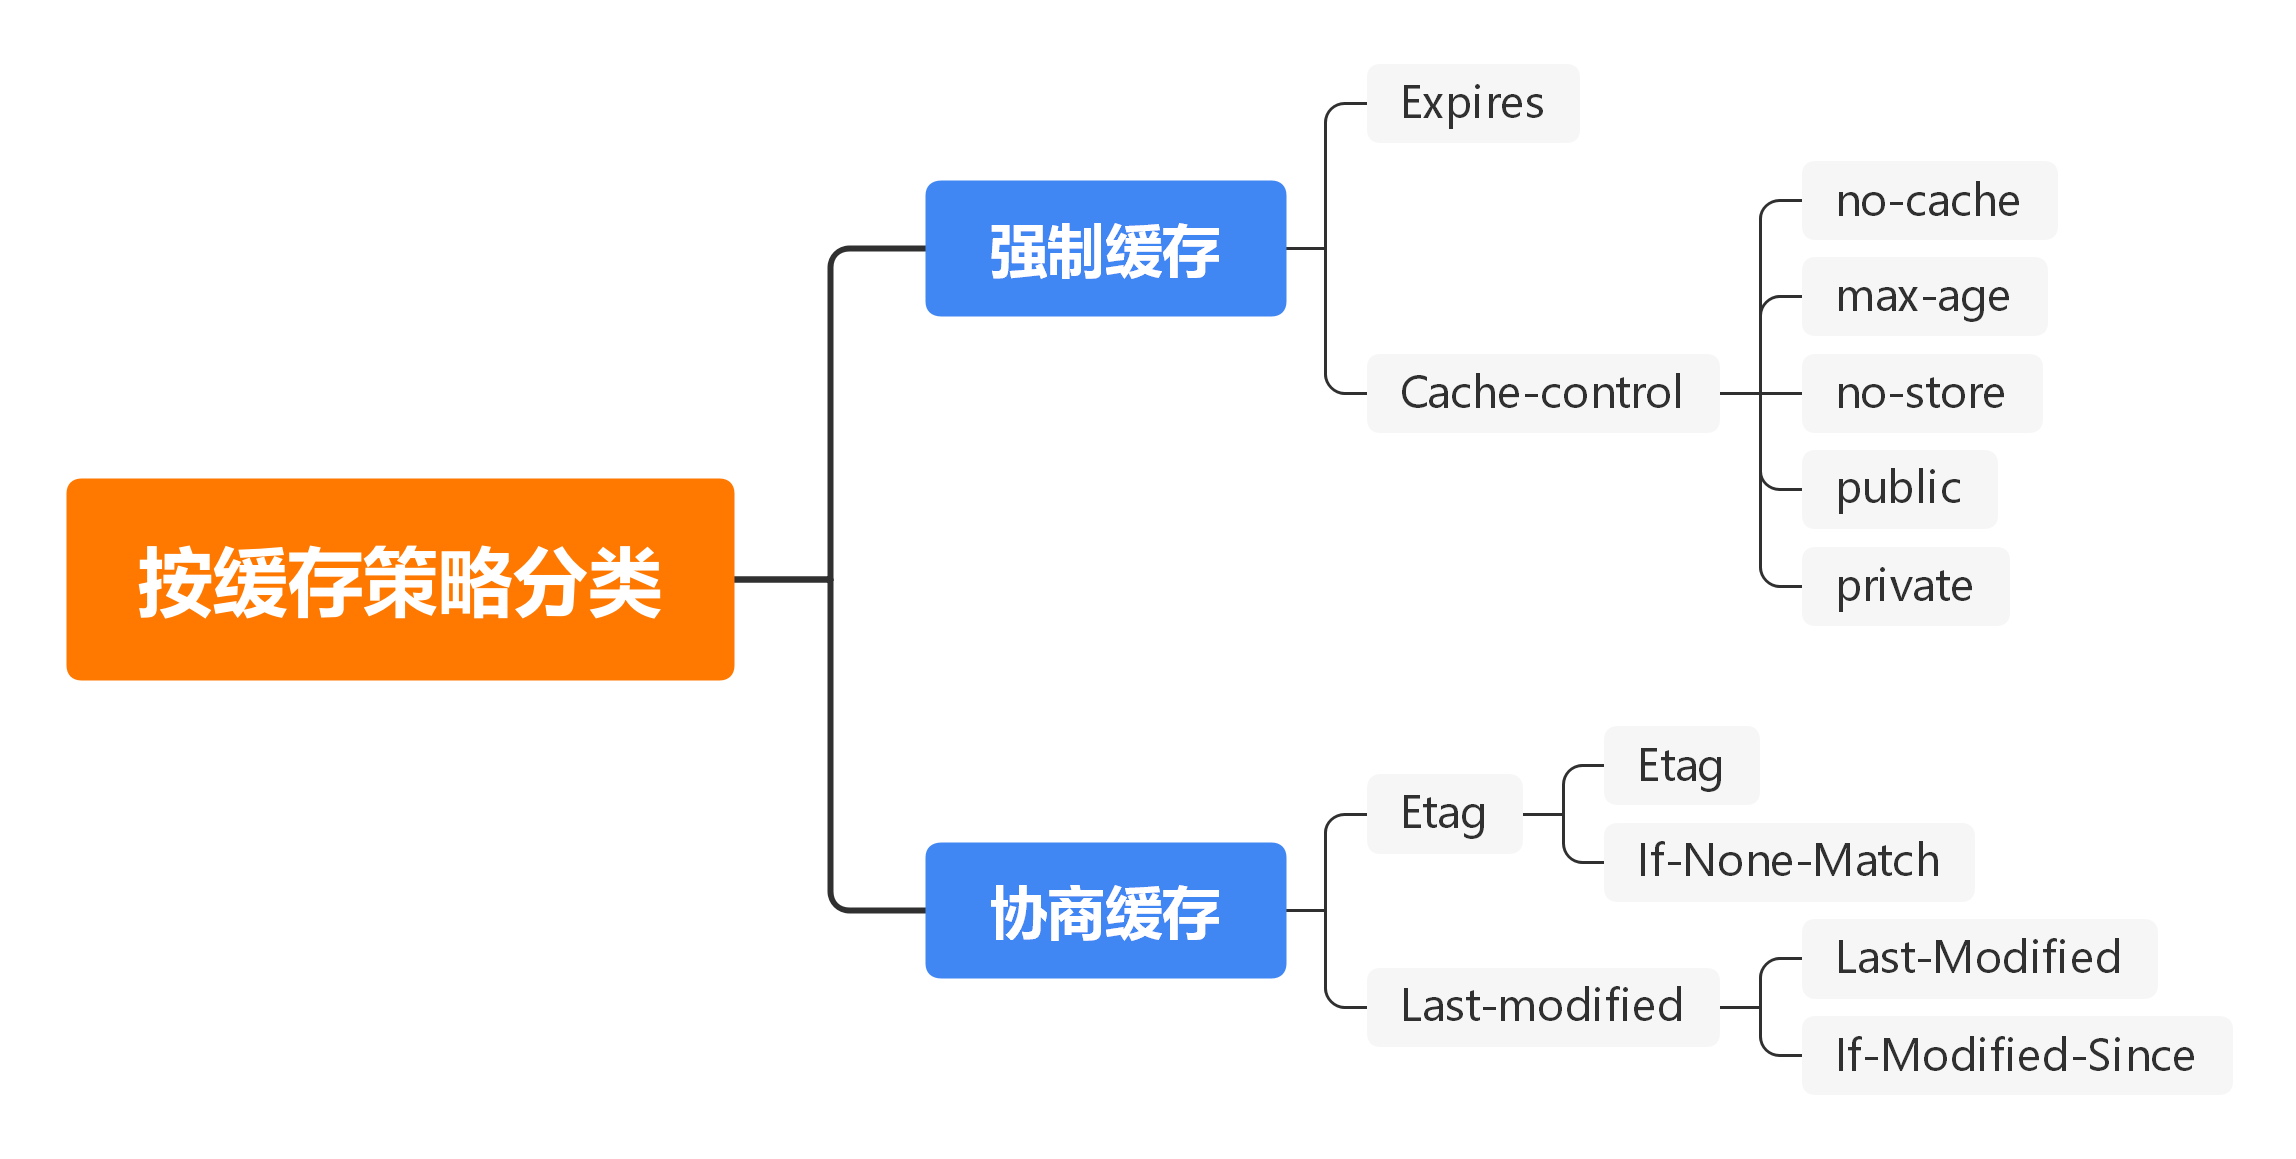
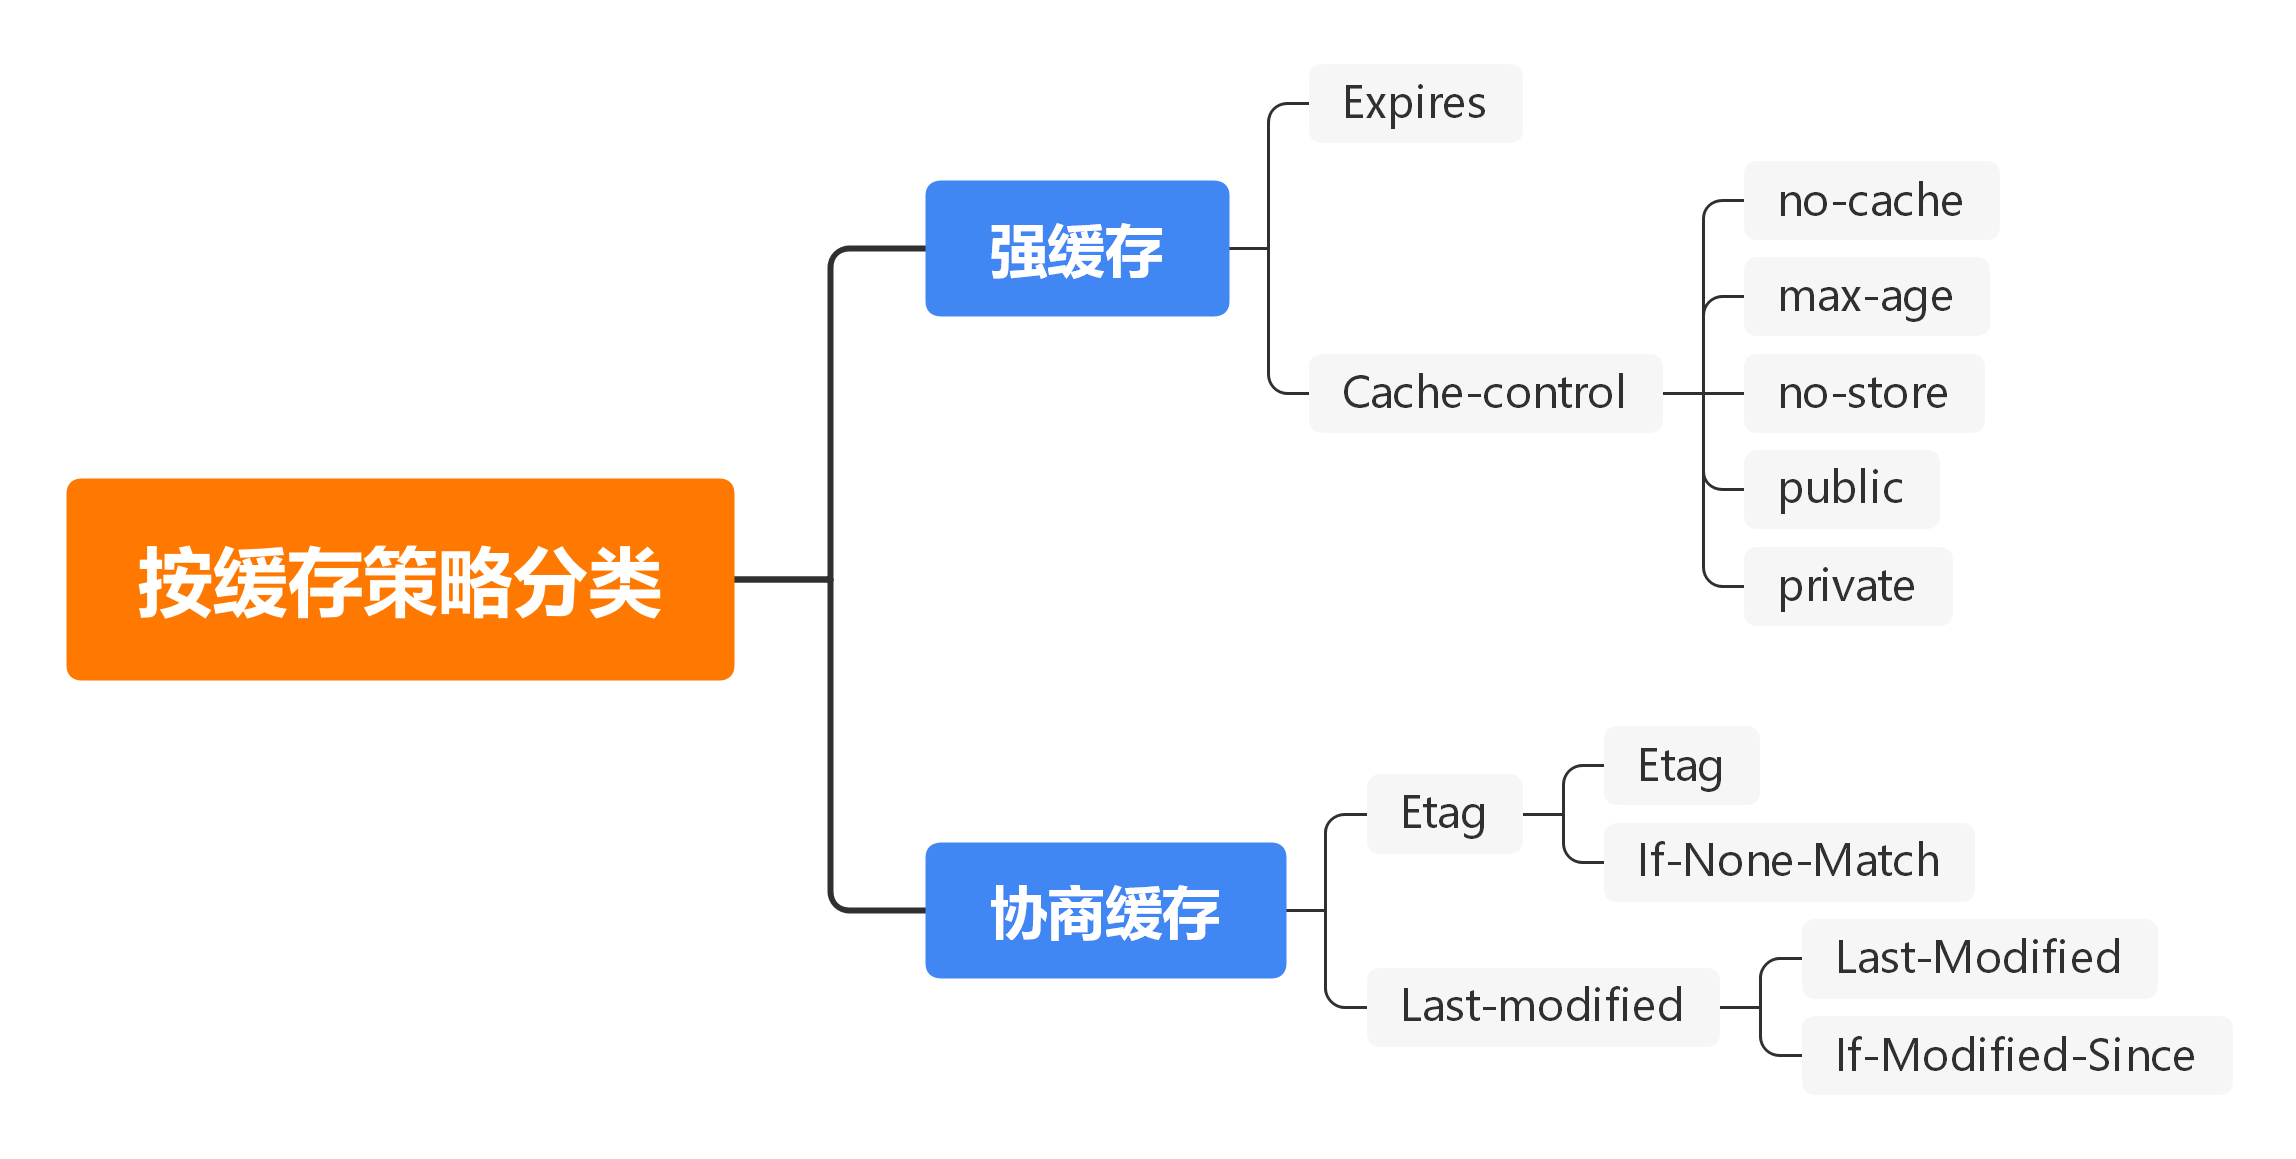
feat: 强制缓存->强缓存

diff --git a/docs/others/http&https/知识点.md b/docs/others/http&https/知识点.md
@@ -1,8 +1,8 @@
 # 知识点
 
-## 强制缓存与协商缓存
+## 强缓存与协商缓存
 
-强制缓存：根据过期时间决定使用本地缓存还是请求新资源。
+强缓存：根据过期时间决定使用本地缓存还是请求新资源。
 
 协商缓存：每次都会发出请求，经过服务器对比后决定采用本地缓存还是新资源。
 
